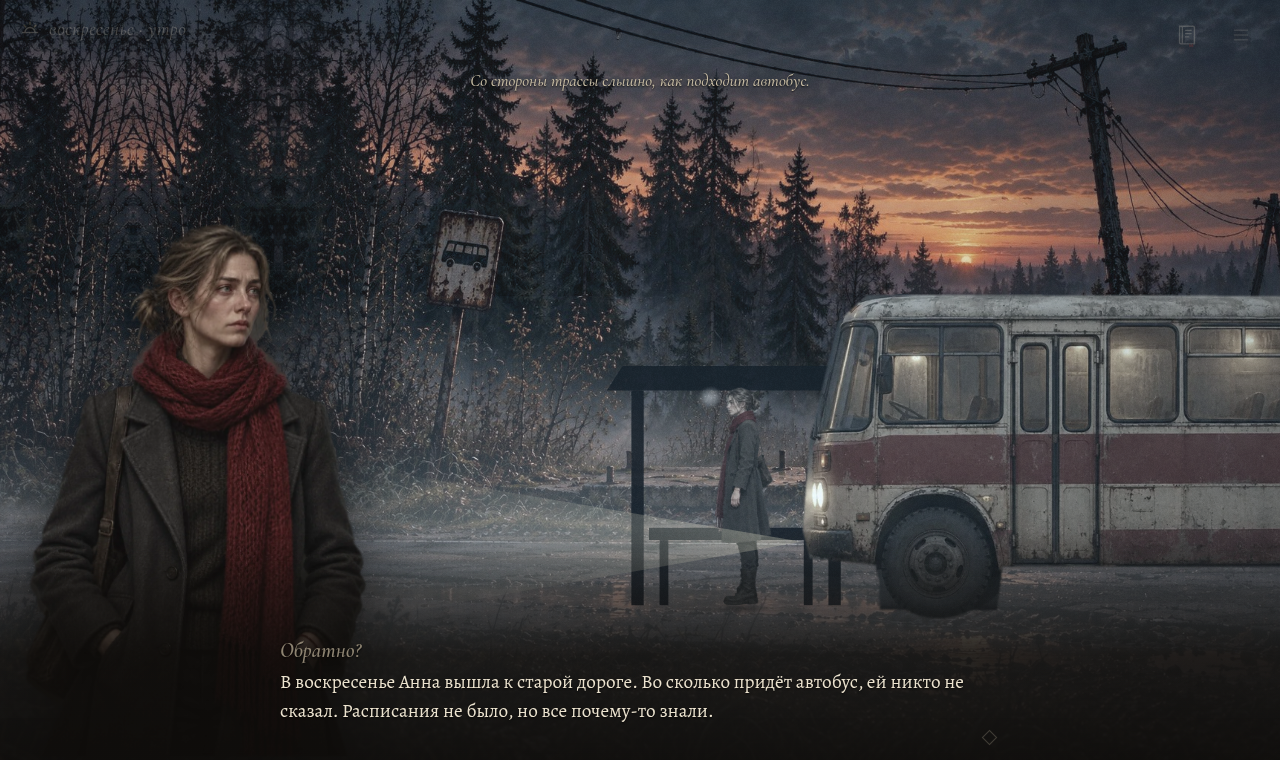
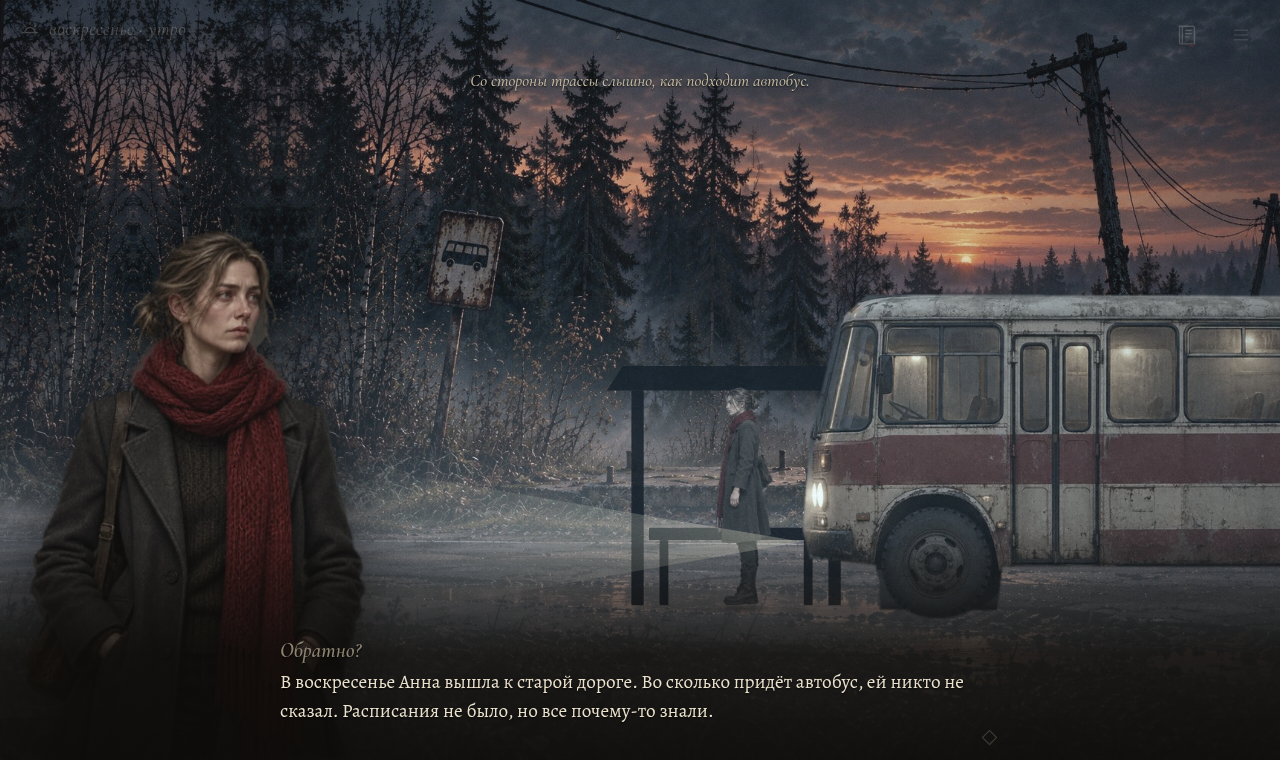
Painted art for Poludnitsa, Leshy and Domovoi
Cut out from the ChatGPT images: sprites and waist-up portraits for all three.
Leshy's stump is aligned with the stump painted in the field; Poludnitsa keeps
the heat haze and a running glint on the sickle, her face glare is a soft
radial glow; Domovoi sits darkened by the stove with faint amber eyes.

Claude-Session: https://claude.ai/code/session_01CtZJh69VWZfWKL7tGv8hTq

Changed region(s): [[0.0938, 0.3026, 0.2188, 0.575], [0.5312, 0.5145, 0.5625, 0.5447]]

diff --git a/zavetye/js/render.js b/zavetye/js/render.js
@@ -342,6 +342,11 @@ function head(g, U, hy, L, skin, o = {}){
 function annaDraw(g, x, dir, move, ph){ if(typeof annaRigReady === 'function' && annaRigReady() && !IMG.s_anna_1) return drawAnnaRig(g, x, 124, dir, ph, move, typeof keys !== 'undefined' && keys.run); const sp = typeof spriteFor === 'function' && spriteFor('anna', ph, move); if(sp) return drawSprite(g, sp, x, 124, dir, move ? Math.abs(Math.sin(ph)) * 2 : 0); figure(g, x, LOOKS.anna, { face:dir, move, ph }); }
 function drawNpc(g, n){
   const sp = typeof spriteFor === 'function' && spriteFor(n.id, 0, false);
+  if(sp && n.id === 'domovoi'){   // Домовой у печи: в тени, видны космы и янтарные глаза
+    const H = 46, w = sp.width / sp.height * H, x = n.x;
+    g.save(); g.filter = SIL ? 'brightness(.5) saturate(.8)' : 'none'; g.translate(x, GY); g.scale(-1, 1); g.drawImage(sp, -w / 2, -H, w, H); g.restore(); g.filter = 'none';
+    if((T % 4.3) < 4.05){ const ex = x - (.74 - .5) * w, ey = GY - H + .168 * H; g.save(); g.globalCompositeOperation = 'lighter'; const gr = g.createRadialGradient(ex, ey, 0, ex, ey, 6); gr.addColorStop(0, 'rgba(255,190,80,.7)'); gr.addColorStop(1, 'rgba(255,190,80,0)'); g.fillStyle = gr; g.fillRect(ex - 6, ey - 6, 12, 12); g.restore(); glow(ex, ey, 26, .5); }
+    return; }
   if(sp){ const H = { grisha:136, grunya:110, nina:116, varya:110, young:102, leshy:176, noon:238, domovoi:44 }[n.id] || 120; if(n.id === 'noon') glow(n.x, GY - 140, 300, 1, '255,248,220'); drawSprite(g, sp, n.x, H, n.id === 'grisha' && n.pose === 'suitcase' ? 1 : -1); return; }
   switch(n.id){
     case 'grisha': if(n.pose === 'suitcase') figure(g, n.x, LOOKS.grisha, { face:1, carry:true }); else figure(g, n.x, LOOKS.grisha, { face:-1, stoop:.3, work:true }); break;
@@ -505,15 +510,16 @@ function drawNoonArt(g, x0){
     const cx = 32, cy = -H + 4, R = 15; L.fillStyle = 'rgb(206,206,198)'; L.beginPath(); L.arc(cx, cy, R, Math.PI, Math.PI * 2.28, false); L.arc(cx + 3, cy + 3, R - 4, Math.PI * 2.24, Math.PI * 1.05, true); L.closePath(); L.fill();
     L.strokeStyle = 'rgba(255,255,255,.95)'; L.lineWidth = .9; L.beginPath(); L.arc(cx, cy, R - .4, Math.PI * 1.05, Math.PI * 2.2); L.stroke();
   };
-  const post = L => { L.setTransform(1, 0, 0, 1, 0, 0); L.globalCompositeOperation = 'destination-out'; L.fillStyle = 'rgba(0,0,0,.18)'; L.fillRect(0, 0, L.canvas.width, L.canvas.height); L.globalCompositeOperation = 'source-over';
+  const post = L => { L.setTransform(1, 0, 0, 1, 0, 0); L.globalCompositeOperation = 'destination-out'; L.fillStyle = `rgba(0,0,0,${IMG.s_noon ? .06 : .18})`; L.fillRect(0, 0, L.canvas.width, L.canvas.height); L.globalCompositeOperation = 'source-over';
     const m = g.getTransform(); L.setTransform(m.a, 0, 0, m.a, -(x - 70) * m.a, -(base - H - 40) * m.a); fadeDown(L, x - 70, 140, base - 70, base + 2, 1); };   // полупрозрачна, а подол тонет в ржи
   const Lr = spiritLayer(g, 'noon', x - 70, base - H - 40, 140, H + 46, paint, post); if(!Lr) return;
-  g.globalAlpha = .42 * br; g.globalCompositeOperation = 'screen'; g.filter = `blur(${Math.max(4, Lr.W / 30)}px)`; g.drawImage(Lr.c, Lr.X, Lr.Y);   // ореол
-  g.filter = `blur(${Math.max(.6, Lr.W / 260)}px)`; g.globalCompositeOperation = 'source-over'; g.globalAlpha = .86 * br; g.drawImage(Lr.c, Lr.X, Lr.Y); g.filter = 'none'; Lr.done();
+  g.globalAlpha = (IMG.s_noon ? .1 : .42) * br; g.globalCompositeOperation = 'screen'; g.filter = `blur(${Math.max(4, Lr.W / 30)}px)`; g.drawImage(Lr.c, Lr.X, Lr.Y);   // ореол
+  g.filter = `blur(${Math.max(.6, Lr.W / 260)}px)`; g.globalCompositeOperation = 'source-over'; g.globalAlpha = IMG.s_noon ? 1 : .86 * br; g.drawImage(Lr.c, Lr.X, Lr.Y); g.filter = 'none'; Lr.done();
   // на месте лица — слепящее пятно, блик бежит по лезвию
   g.save(); g.globalCompositeOperation = 'lighter';
   const fx = x - 1, fy = base - H + 6; gr = g.createRadialGradient(fx, fy, 0, fx, fy, 18); gr.addColorStop(0, `rgba(255,255,250,${.85 * br})`); gr.addColorStop(.4, `rgba(255,248,220,${.3 * br})`); gr.addColorStop(1, 'rgba(255,248,220,0)'); g.fillStyle = gr; g.fillRect(fx - 18, fy - 18, 36, 36);
-  const ga = Math.PI + ((T * .5) % 1.8) * Math.PI * .7; if(ga < Math.PI * 2.28){ const bx = x - (32 + Math.cos(ga) * 15), by = base - H + 4 + Math.sin(ga) * 15;
+  const ga = Math.PI + ((T * .5) % 1.8) * Math.PI * .7, SI = IMG.s_noon, gcx = SI ? x + 22 : x - 32, gcy = SI ? base - H + 14 : base - H + 4, gR = SI ? 12 : 15;
+  if(ga < Math.PI * 2.28){ const bx = gcx - Math.cos(ga) * gR, by = gcy + Math.sin(ga) * gR;
     gr = g.createRadialGradient(bx, by, 0, bx, by, 12); gr.addColorStop(0, 'rgba(255,255,255,.95)'); gr.addColorStop(1, 'rgba(255,255,255,0)'); g.fillStyle = gr; g.fillRect(bx - 12, by - 12, 24, 24);
     g.strokeStyle = 'rgba(255,255,255,.6)'; g.lineWidth = .7; g.beginPath(); g.moveTo(bx - 9, by); g.lineTo(bx + 9, by); g.moveTo(bx, by - 9); g.lineTo(bx, by + 9); g.stroke(); }
   // пыльца в горячем воздухе
@@ -523,10 +529,21 @@ function drawNoonArt(g, x0){
 }
 /* Леший сидит на пне у развилки: сгорбленный, косматый, мох и ветки вместо волос. Тени у него нет. */
 function drawLeshyArt(g, x0, ph){
+  const im = IMG.s_leshy;
+  if(im){   // картинка: пень на ней совмещён с пнём на картине поля, Леший смотрит влево, на тропинку
+    const h = 196, w = im.width / im.height * h, gy = 348, cx = x0 + 2 - w * .3, br = Math.sin(T * 1.1) * .6;
+    const Lr = spiritLayer(g, 'leshyImg', cx - w / 2 - 4, gy - h - 6, w + 8, h + 10, L => {
+      L.translate(cx, gy); L.scale(-1, 1 + br / h); L.filter = 'brightness(.78) saturate(.8) contrast(1.05)'; L.drawImage(im, -w / 2, -h, w, h); L.filter = 'none'; },
+      L => fadeDown(L, cx - w / 2 - 4, w + 8, gy - 26, gy + 2, .7));   // корни пня уходят в траву и туман
+    if(!Lr) return;
+    g.filter = `blur(${Math.max(.3, Lr.W / 900)}px)`; g.drawImage(Lr.c, Lr.X, Lr.Y); g.filter = 'none'; Lr.done();
+    if((T % 5.7) < 5.5){ const ex = cx - (.636 - .5) * w, ey = gy - h + .105 * h; g.save(); g.globalCompositeOperation = 'lighter';   // глаза чуть светятся
+      const gr = g.createRadialGradient(ex, ey, 0, ex, ey, 9); gr.addColorStop(0, 'rgba(190,240,130,.35)'); gr.addColorStop(1, 'rgba(190,240,130,0)'); g.fillStyle = gr; g.fillRect(ex - 9, ey - 9, 18, 18); g.restore(); }
+    return;
+  }
   const sy = 268, x = x0 + 2, K = .8;      // верх пня — по картине поля
   const bre = Math.sin(T * 1.1) * 1, rot = Math.sin(T * .45) * .012;
   const paint = L => {
-    if(IMG.s_leshy){ L.translate(x, 346); L.scale(-1, 1); spiritImg(L, 's_leshy', 170); return; }   // картинка вместе с пнём: низ — у земли под пнём
     L.translate(x, sy); L.rotate(rot); L.scale(-K, K);   // лицом к тропинке, к Анне
     const mg = L.createLinearGradient(-20, -130, 30, 90); mg.addColorStop(0, 'rgb(40,44,32)'); mg.addColorStop(.4, 'rgb(23,26,19)'); mg.addColorStop(1, 'rgb(12,14,10)');
     L.fillStyle = 'rgb(16,19,13)';   // ноги в онучах, лапти
@@ -549,14 +566,14 @@ function drawLeshyArt(g, x0, ph){
     twig(12, -110 + bre, -Math.PI / 2 - .7, 18, 0); twig(20, -114 + bre, -Math.PI / 2 - .05, 16, 0); twig(27, -110 + bre, -Math.PI / 2 + .55, 13, 1);
     L.filter = 'blur(1.5px)'; L.fillStyle = 'rgba(88,104,58,.22)'; for(const [mx, my, rx, ry] of [[-14, -86, 14, 5], [2, -94, 9, 4], [-28, -40, 5, 12], [40, -8, 10, 4]]){ L.beginPath(); L.ellipse(mx, my, rx, ry, -.3, 0, Math.PI * 2); L.fill(); }
   };
-  const post = L => { if(IMG.s_leshy) return fadeDown(L, x - 80, 160, sy + 40, sy + 84, .6); L.filter = 'none'; L.globalCompositeOperation = 'source-atop'; L.lineWidth = .9;   // свалявшаяся шерсть и мох
+  const post = L => { L.filter = 'none'; L.globalCompositeOperation = 'source-atop'; L.lineWidth = .9;   // свалявшаяся шерсть и мох
       for(let i = 0; i < 260; i++){ const px = x - 60 + _rnd(i) * 120, py = sy - 110 + _rnd(i + 400) * 190, a = (_rnd(i + 900) - .5) * .9 + Math.PI / 2, l = 2 + _rnd(i + 77) * 3;
         L.strokeStyle = i % 3 ? 'rgba(4,5,3,.35)' : 'rgba(78,84,58,.22)'; L.beginPath(); L.moveTo(px, py); L.lineTo(px + Math.cos(a) * l, py + Math.sin(a) * l); L.stroke(); }
       L.globalCompositeOperation = 'source-over'; fadeDown(L, x - 80, 160, sy + 14, sy + 60, .9); };   // ноги уходят в туман
   const Lr = spiritLayer(g, 'leshy', x - 80, sy - 130, 160, 210, paint, post); if(!Lr) return;
   g.filter = `blur(${Math.max(.5, Lr.W / 300)}px)`; g.globalAlpha = .96; g.drawImage(Lr.c, Lr.X, Lr.Y); g.filter = 'none'; g.globalAlpha = 1; Lr.done();
   // бледно-зелёные глаза из-под бровей, моргают
-  if(!IMG.s_leshy && (T % 5.7) < 5.5){ g.save(); g.globalCompositeOperation = 'lighter';
+  if((T % 5.7) < 5.5){ g.save(); g.globalCompositeOperation = 'lighter';
     for(const ex of [21, 28]){ const ex2 = x - ex * K, ey = sy + (-101 + bre) * K, gr = g.createRadialGradient(ex2, ey, 0, ex2, ey, 6); gr.addColorStop(0, 'rgba(210,250,150,.9)'); gr.addColorStop(.35, 'rgba(160,220,100,.35)'); gr.addColorStop(1, 'rgba(160,220,100,0)'); g.fillStyle = gr; g.fillRect(ex2 - 6, ey - 6, 12, 12);
       g.fillStyle = 'rgba(232,255,190,1)'; g.beginPath(); g.ellipse(ex2, ey, 1.3, .9, 0, 0, Math.PI * 2); g.fill(); }
     g.restore(); }

diff --git a/zavetye/js/art.js b/zavetye/js/art.js
@@ -51,6 +51,12 @@ const ASSETS = {
   'p_grisha_confused': 'art/p_grisha_confused.webp',
   'p_grisha_broken': 'art/p_grisha_broken.webp',
   's_anna': 'art/s_anna.webp',
+  's_noon': 'art/s_noon.webp',
+  's_leshy': 'art/s_leshy.webp',
+  's_domovoi': 'art/s_domovoi.webp',
+  'p_noon_neutral': 'art/p_noon_neutral.webp',
+  'p_leshy_neutral': 'art/p_leshy_neutral.webp',
+  'p_domovoi_neutral': 'art/p_domovoi_neutral.webp',
   's_anna_body': 'art/s_anna_body.webp',
   's_anna_front': 'art/s_anna_front.webp',
   's_anna_back': 'art/s_anna_back.webp',
